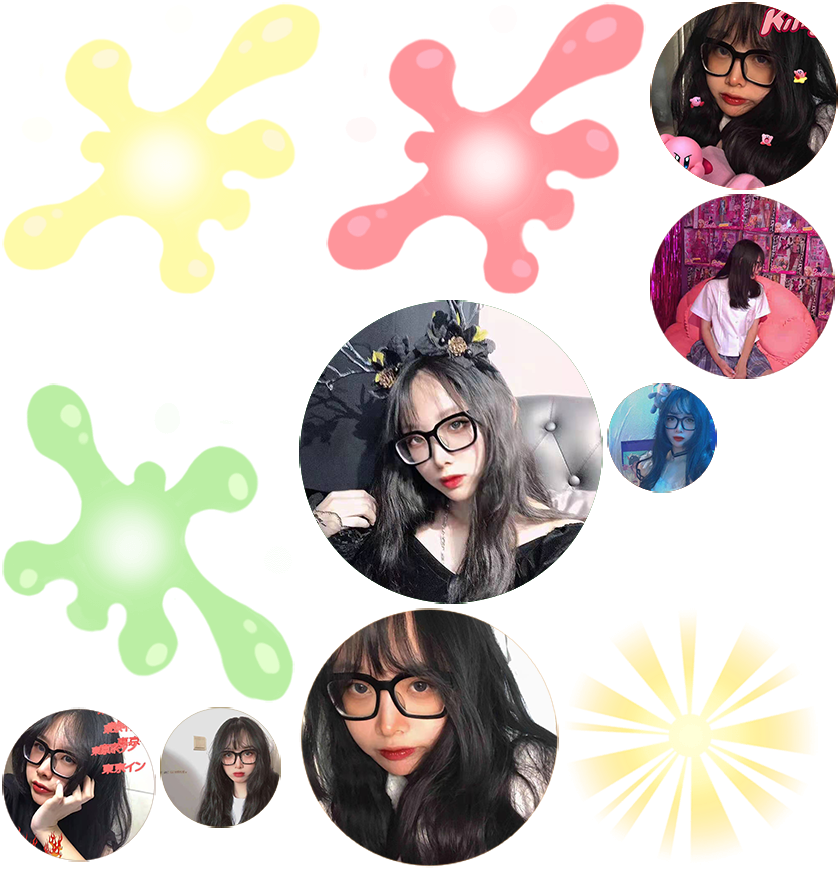
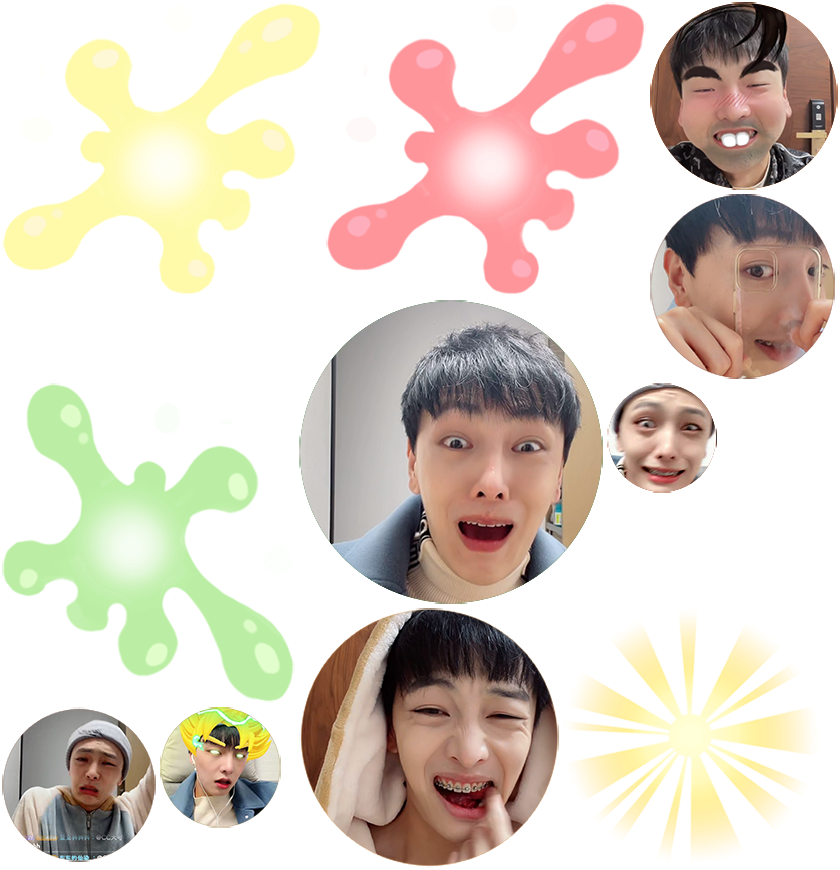
nitial commit

Changed region(s): [[0.0, 0.0, 1.0, 1.0]]

diff --git a/index.html b/index.html
@@ -4,7 +4,7 @@
 <head>
     <meta charset="utf-8">
 
-    <title>合成小萌</title>
+    <title>合成郑美男</title>
 
     <!--http://www.html5rocks.com/en/mobile/mobifying/-->
     <meta name="viewport" content="width=device-width,user-scalable=no,initial-scale=1, minimum-scale=1,maximum-scale=1" />
@@ -109,7 +109,7 @@
             //        console.log("window.navigator.language",window.navigator.language);
 
             if (window.navigator.language == "zh-CN" || window.navigator.language == "zh-cn") {
-                document.title = "合成小萌";
+                document.title = "合成郑美男";
             } 
 
 
